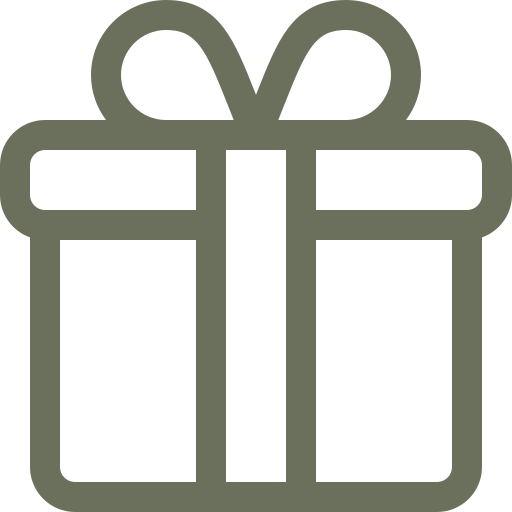
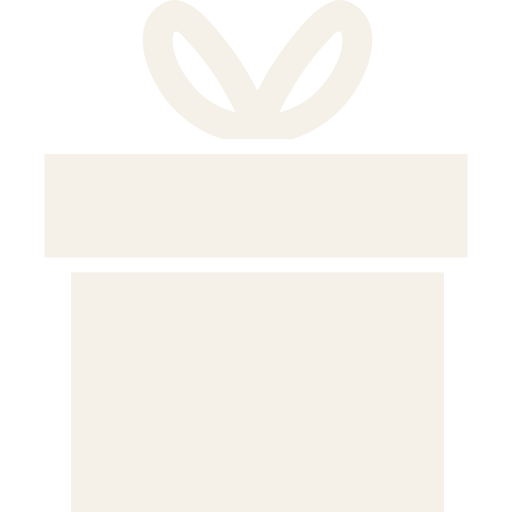
Se agregó la secccion de regalos

diff --git a/css/invitation-style.css b/css/invitation-style.css
@@ -426,7 +426,11 @@ a {
 
 #ceremonia-card,
 #vestuario-card,
+#galeria-card,
 #regalos-card {
+    display: grid;
+    grid-template-rows: 1fr 1fr 1fr;
+    gap: 0;
     width: 100%;
     min-height: 70rem;
     padding: 5rem;
@@ -434,9 +438,14 @@ a {
     align-items: center;
     align-content: center;
     text-align: center;
-    display: grid;
-    grid-template-rows: 1fr 1fr 1fr;
-    gap: 0;
+}
+
+#galeria-card {
+    grid-template-rows: auto auto;
+    gap: 3rem;
+    padding: 0;
+    position: relative;
+    text-align: center;
 }
 
 #vestuario-card {
@@ -451,6 +460,16 @@ a {
 }
 
 #regalos-card {
+    display: grid;
+    grid-template-rows: 1fr 1fr 1fr;
+    gap: 0;
+    width: 100%;
+    min-height: fit-content;
+    padding: 5rem;
+    margin: 0 auto;
+    align-items: center;
+    align-content: center;
+    text-align: center;
     background-color: var(--olivogpt);
     color: white;
 }
@@ -582,6 +601,7 @@ a {
     border-radius: .3rem;
     display: block;
     margin: auto;
+    padding: 0;
 }
 
 
@@ -615,6 +635,16 @@ a {
 
 
 
+
+
+
+
+
+
+
+
+/* --------------- GALERIA CARD -------------- */
+
 .foto {
     background-position: center;
     background-repeat: no-repeat;
@@ -642,18 +672,6 @@ a {
 
 #foto-1 {
     background-image: url(../fotos/ring_foto.jpeg);
-}
-
-#galeria-card {
-    display: grid;
-    grid-template-rows: auto auto;
-    grid-template-columns: 1fr;
-    gap: 3rem;
-    width: auto;
-    height: 100vh;
-    align-content: center;
-    position: relative;
-    text-align: center;
 }
 
 #galeria-card .icon {

diff --git a/invitation.html b/invitation.html
@@ -150,11 +150,17 @@
         </section>
 
             <section id="regalos-card">
-                <img src="icons/regalo.png" alt="" class="icon">
-                <h3 id="regalos-title">REGALOS</h3>
-                <p id="regalos-label-1">Lo mas importante es tu presencia.</p>
-                <p id="regalos-label-2">Pero si deas hacernos un regalo aquí tienes nuestros datos:</p>
-                <a id="regalos-button" target="_blank" href="">VER DATOS BANCARIOS</a>
+                <div id="regalos-box-1">
+                    <img src="icons/regalo.png" alt="" class="icon">
+                    <h3 id="regalos-title">REGALOS</h3>
+                </div>
+                <div id="regalos-box-2">
+                    <p id="regalos-label-1">Lo mas importante es tu presencia.</p>
+                    <p id="regalos-label-2">Pero si deas hacernos un regalo aquí tienes nuestros datos:</p>
+                </div>
+                <div id="regalos-box-3">
+                    <a id="regalos-button" target="_blank" href="">VER DATOS</a>
+                </div>
             </section>
     </main>
     <script src="js/temp.js"></script>
